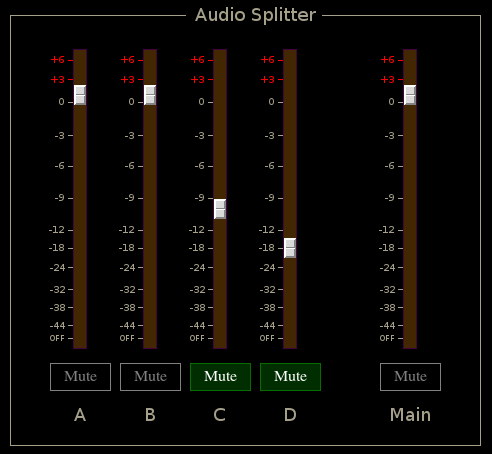
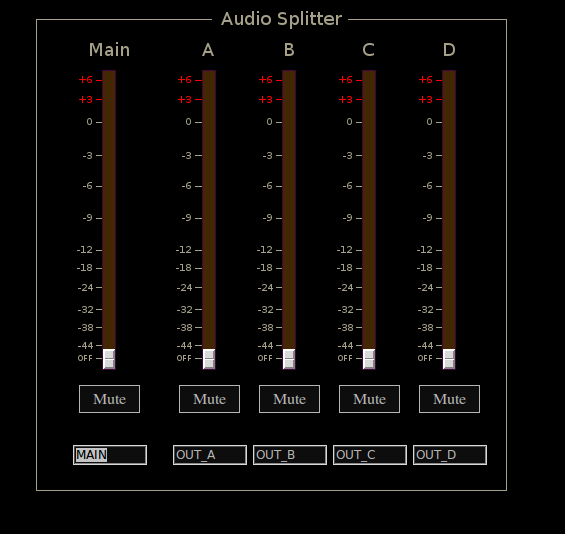
Updates ASplit editor with annotations.

Changed region(s): [[0.061, 0.0, 0.9146, 0.9251]]

diff --git a/llia/synths/asplit/tk/editor.py b/llia/synths/asplit/tk/editor.py
@@ -1,5 +1,7 @@
 # llia.synths.asplit.tk.editor
 
+from Tkinter import StringVar
+
 from llia.gui.tk.tk_subeditor import TkSubEditor
 import llia.gui.tk.tk_factory as factory
 import llia.gui.tk.control_factory as cf
@@ -14,25 +16,75 @@ class TkASplitPanel(TkSubEditor):
     IMAGE_FILE = "resources/ASplit/editor.png"
     TAB_FILE = "resources/Tabs/spliter.png"
     
+    # def __init__(self, editor):
+    #     frame = editor.create_tab(self.NAME,self.TAB_FILE)
+    #     frame.config(background=factory.bg())
+    #     canvas = factory.canvas(frame, 900, 600, self.IMAGE_FILE)
+    #     canvas.pack()
+    #     TkSubEditor.__init__(self, canvas, editor, self.NAME)
+    #     editor.add_child_editor(self.NAME, self)
+    #     y0,y1 = 50,364
+    #     x0 = 100
+    #     for i,d in enumerate("ABCD "):
+    #         x = x0 + (70 * i)
+    #         if d == ' ':
+    #             d == ''
+    #             x += 50
+    #         param = ("gain%s" % d).strip()
+    #         vs = self.volume_slider(param,x,y0,height=300)
+    #         self.mute_button(d, x,y1)
+
+ 
+        
+
     def __init__(self, editor):
         frame = editor.create_tab(self.NAME,self.TAB_FILE)
         frame.config(background=factory.bg())
-        canvas = factory.canvas(frame, 900, 600, self.IMAGE_FILE)
+        canvas = factory.canvas(frame, 654, 565, self.IMAGE_FILE)
         canvas.pack()
         TkSubEditor.__init__(self, canvas, editor, self.NAME)
         editor.add_child_editor(self.NAME, self)
-        y0,y1 = 50,364
+        self._ledger_vars = {}
+        #y0,y1 = 50,364
+        y0,ymute,yledger = 75, 390, 450
         x0 = 100
-        for i,d in enumerate("ABCD "):
-            x = x0 + (70 * i)
-            if d == ' ':
-                d == ''
-                x += 50
-            param = ("gain%s" % d).strip()
-            vs = self.volume_slider(param,x,y0,height=300)
-            self.mute_button(d, x,y1)
 
-    def mute_button(self,suffix,x,y):
-        param = ("unmute%s" % suffix).strip()
-        self.toggle(param,x-23,y,off=(0,"Mute"),on=(1,"On"))
+        def mute_button(suffix,x):
+            param = ("unmute%s" % suffix).strip()
+            self.toggle(param,x-23,ymute,off=(0,"Mute"),on=(1,"On"))
+
+        def ledger_entry(key,x):
+            var = StringVar()
+            self._ledger_vars[key] = var
+            self._define_annotation(key)
+            e = factory.entry(canvas,var,index=key)
+            e.place(x=x-29,y=yledger,width=74)
+            e.bind("<FocusOut>",self.ledger_callback)
+            var.set(key)
+            
+        xmain = x0+50
+        self.volume_slider("gain",xmain,y0,height=300)
+        mute_button("",xmain)
+        ledger_entry("MAIN",xmain)
         
+        for i,key in enumerate("ABCD"):
+            x = xmain+100+(i*80)
+            param = "gain%s" % key
+            self.volume_slider(param,x,y0,height=300)
+            mute_button(key,x)
+            ledger_entry("OUT_%s" % key, x)
+
+    def ledger_callback(self, event):
+        key = event.widget.index
+        var = self._ledger_vars[key]
+        self._set_annotation(key, var.get())
+
+    def annotation(self, key, text=None):
+        try:
+            var = self._ledger_vars[key]
+            if text != None:
+                var.set(text)
+                self._set_annotation(key, text)
+            return var.get()
+        except KeyError:
+            return None
